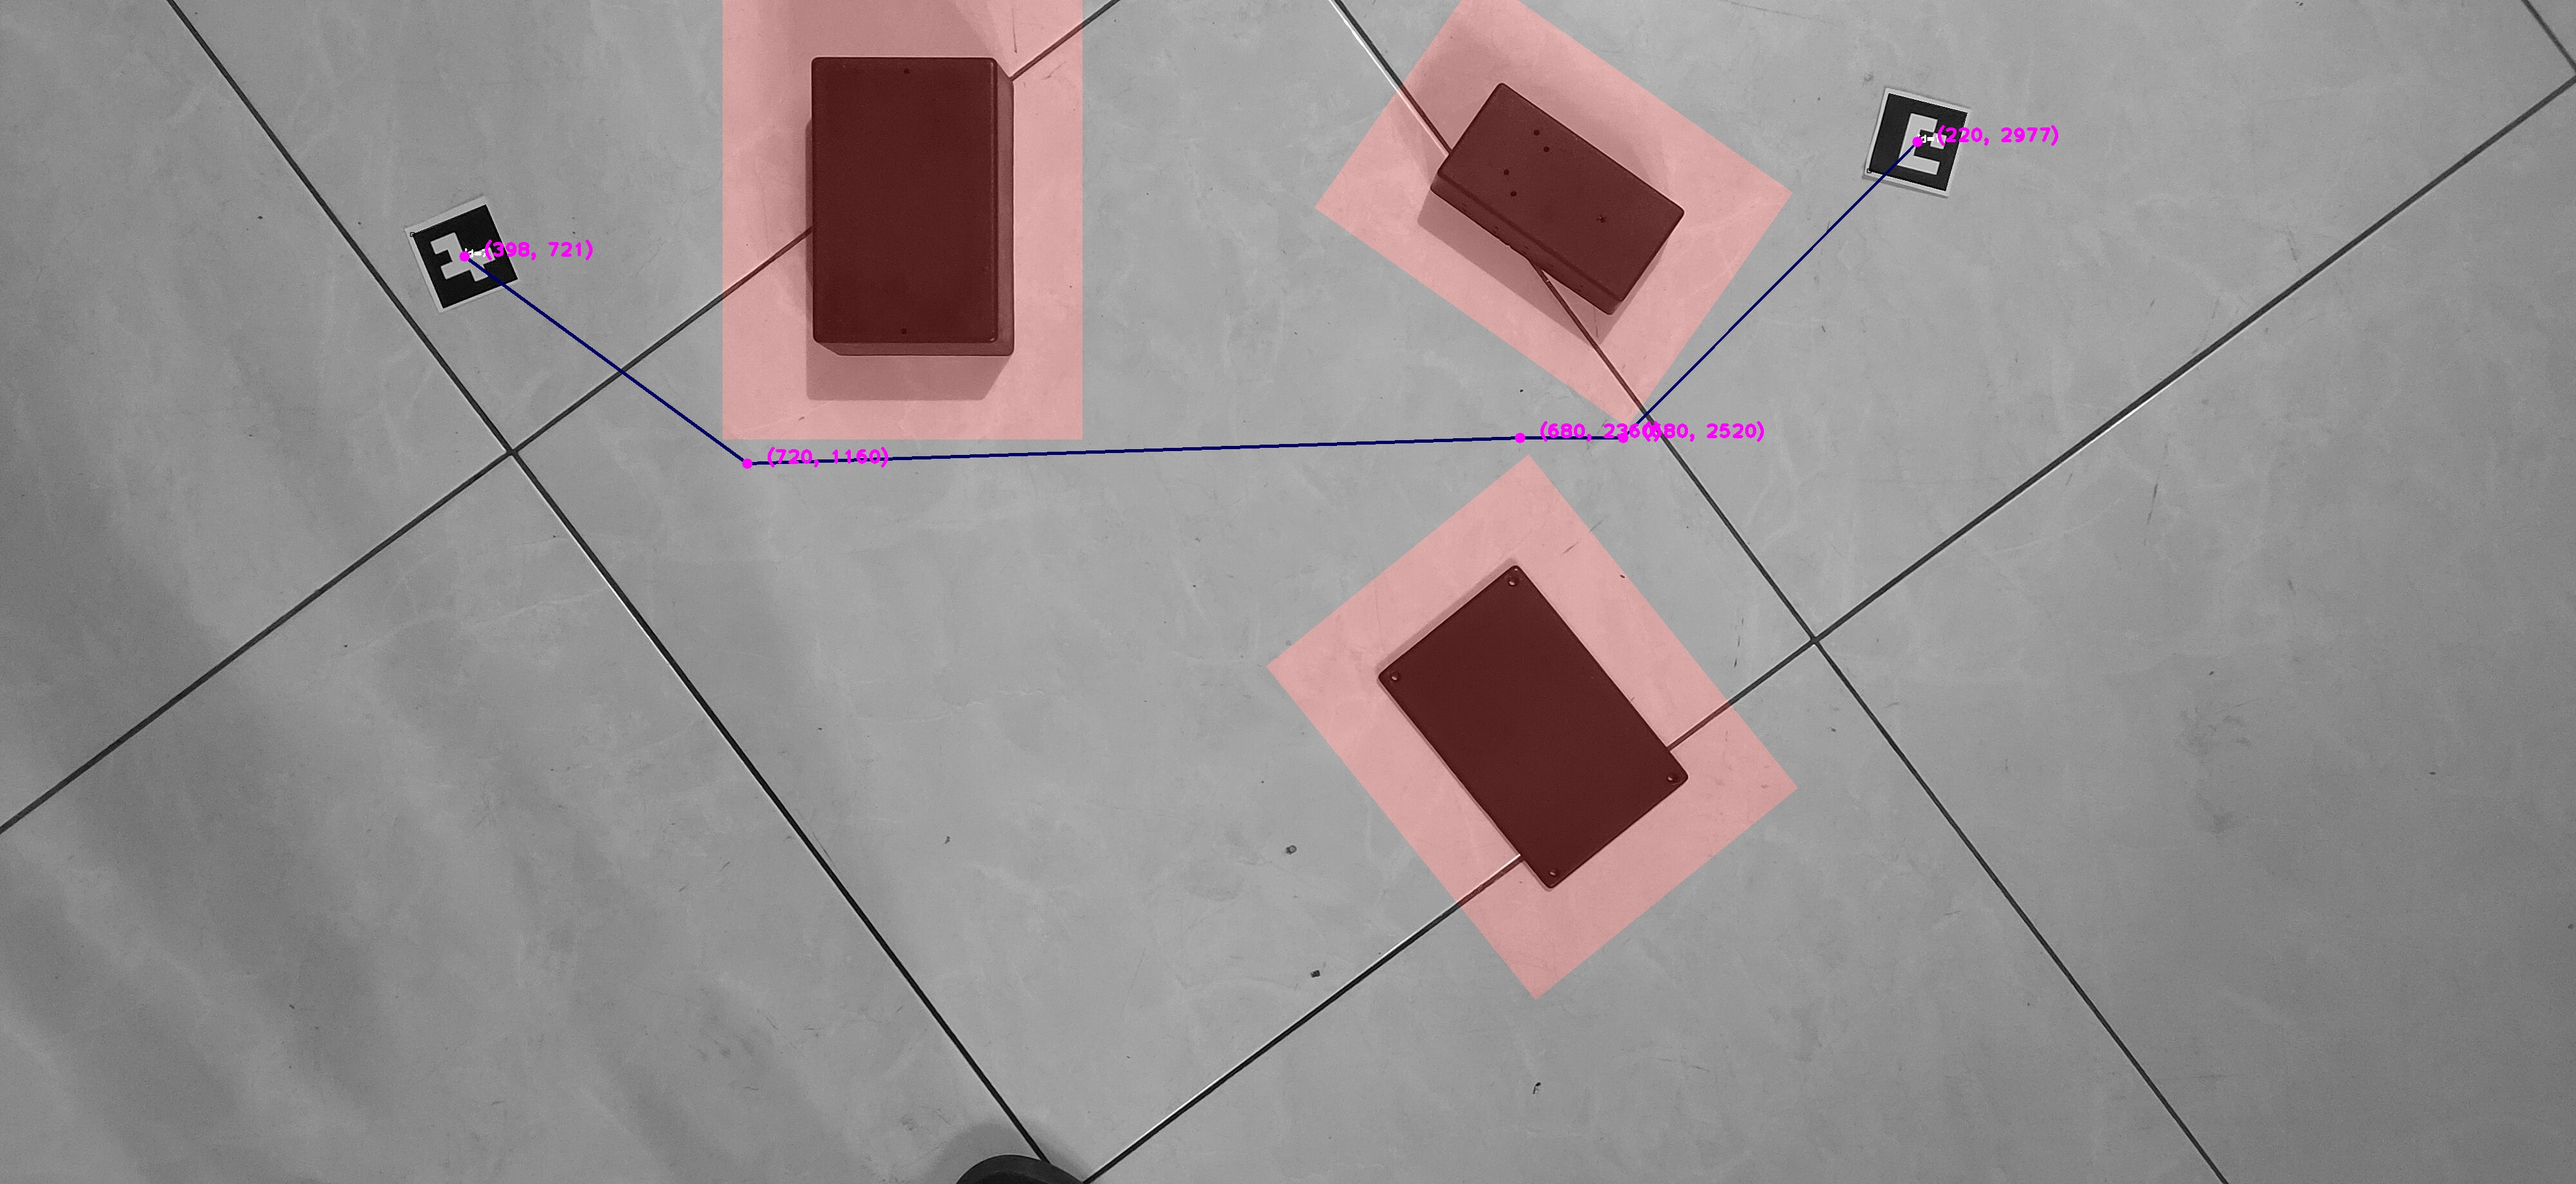
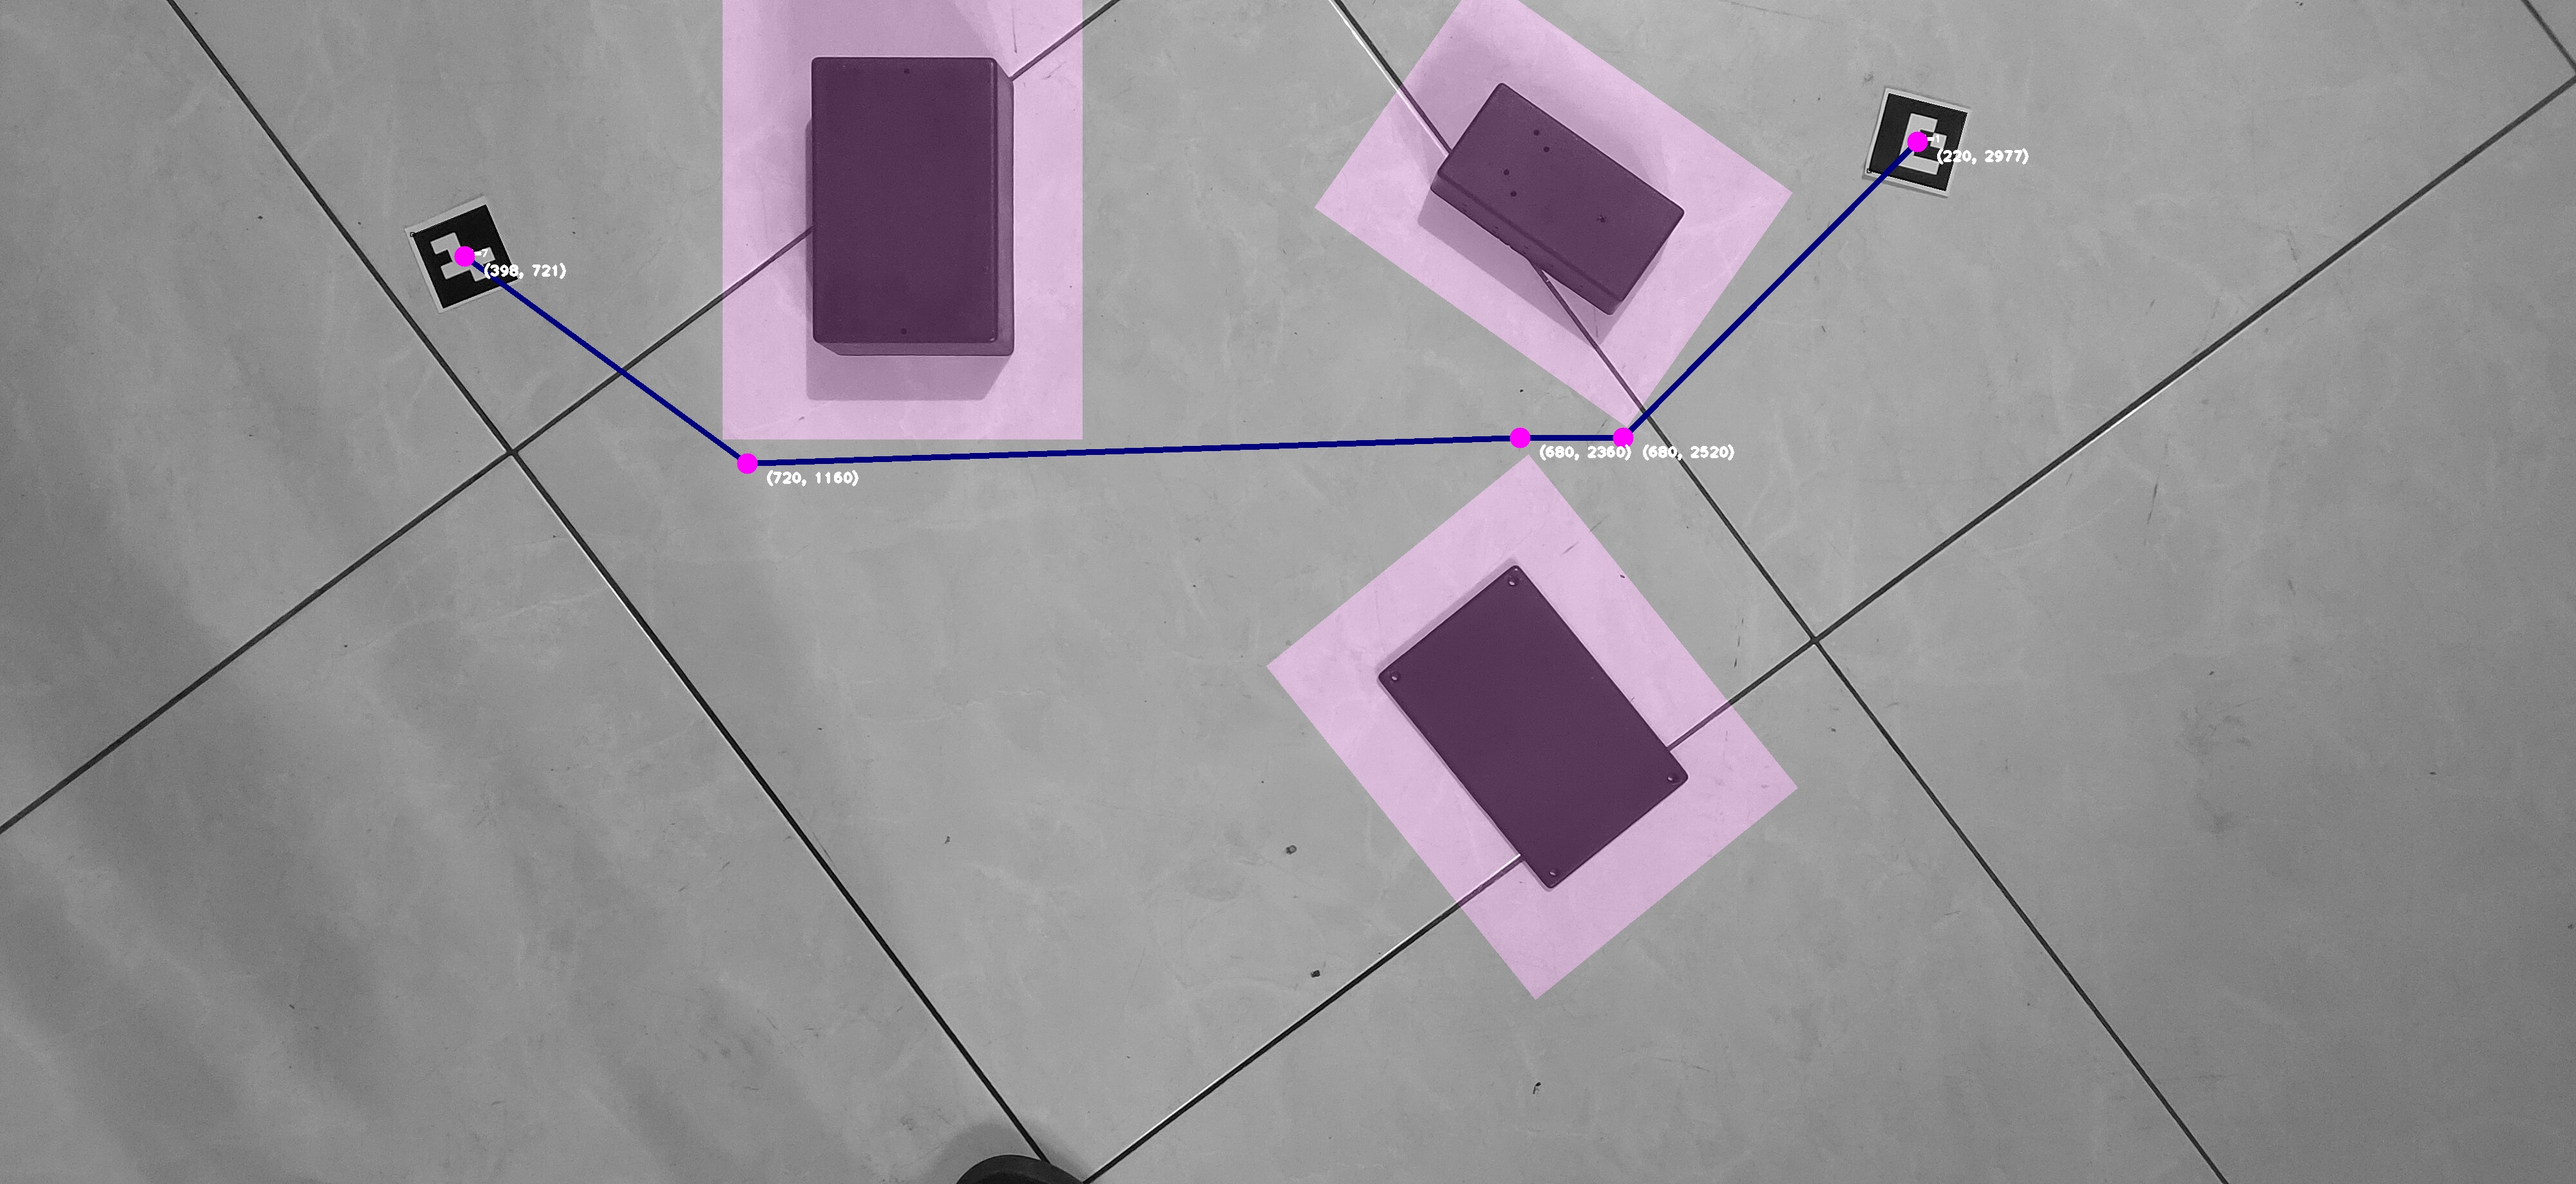
fix color

diff --git a/GetPath.py b/GetPath.py
@@ -7,18 +7,14 @@ image = cv2.imread('Image/4.jpg', 0)
 # Preprocessing
 posa = Position(image)
 print("Posisi Awal : ", posa)
-map, pos, residu = Preprocessing(image, posa, scale)
+map, pos = Preprocessing(image, posa, scale)
 print("Setelah di flip : ", pos)
 
 print("Nilai:", pos["start"])
 print("Nilai:", pos["goal"])
-print("Residu:", residu['start'])
-print("Residu:", residu['goal'])
 
 # Pencarian Jalur
 (path, time), open_list, close_list = jps.method(map, pos['start'], pos['goal'], 2)
-# print(f"Open List adalah : {open_list}")
-# print(f"Close List adalah : {close_list}")
 print(f"Waktu Pencarian : {time}")
 # path, time = astar.method(map, pos['start'], pos['goal'], 2)
 
@@ -40,11 +36,11 @@ image = cv2.imread("Output/Overlay.jpg")
 for i in range(1, len(path)):
     y1, x1 = path[i - 1]
     y2, x2 = path[i]
-    cv2.line(image, (x1, y1), (x2, y2), 100, 4) 
+    cv2.line(image, (x1, y1), (x2, y2), 127, 8) 
 
 for y, x in path:
-    cv2.circle(image, (x, y), 8, (255,0,255), -1) 
-    cv2.putText(image, f"({y}, {x})", (x+30,y), 1, 2, (255,0,255), 3)
+    cv2.circle(image, (x, y), 16, (255,0,255), -1) 
+    cv2.putText(image, f"({y}, {x})", (x+30,y+30), 1, 1.5, (255,255,255), 3)
 
 cv2.imwrite('Output/Output.jpg', image)
 cv2.waitKey(0)

diff --git a/GetPreprocessing.py b/GetPreprocessing.py
@@ -13,11 +13,6 @@ def Preprocessing(image, pos, scale):
         for key, (x, y) in pos.items()
     }
 
-    residu = {
-        key: (x % scale, y % scale)
-        for key, (x, y) in pos.items()
-    }
-
     # Merubah Citra kedalam array numpy
     map = np.array(dilasi)
 
@@ -29,4 +24,4 @@ def Preprocessing(image, pos, scale):
     pos['start'] = (Ys, Xs)
     pos['goal'] = (Yg, Xg)
 
-    return map, pos, residu
+    return map, pos

diff --git a/GetContuor.py b/GetContuor.py
@@ -28,7 +28,7 @@ def Contour(image):
 
     # Buat output berwarna: kontur putih → misalnya warna biru
     output_colored = np.zeros_like(image_bgr)
-    output_colored[np.where(output == 255)] = (0, 0, 255)  # Merah
+    output_colored[np.where(output == 255)] = (255, 100, 255)  # Merah
 
     # Overlay dengan transparansi 20%
     blended = cv2.addWeighted(image_bgr, 1.0, output_colored, 0.2, 0)

diff --git a/Algoritma/astar.py b/Algoritma/astar.py
@@ -56,7 +56,6 @@ def method(matrix, start, goal, hchoice):
                 current = came_from[current]
             path.append(start)
             path = path[::-1]
-            #print(gscore[goal])
             endtime = time.time()
             return (path, round(endtime - starttime, 6)), open_list, close_list
 
